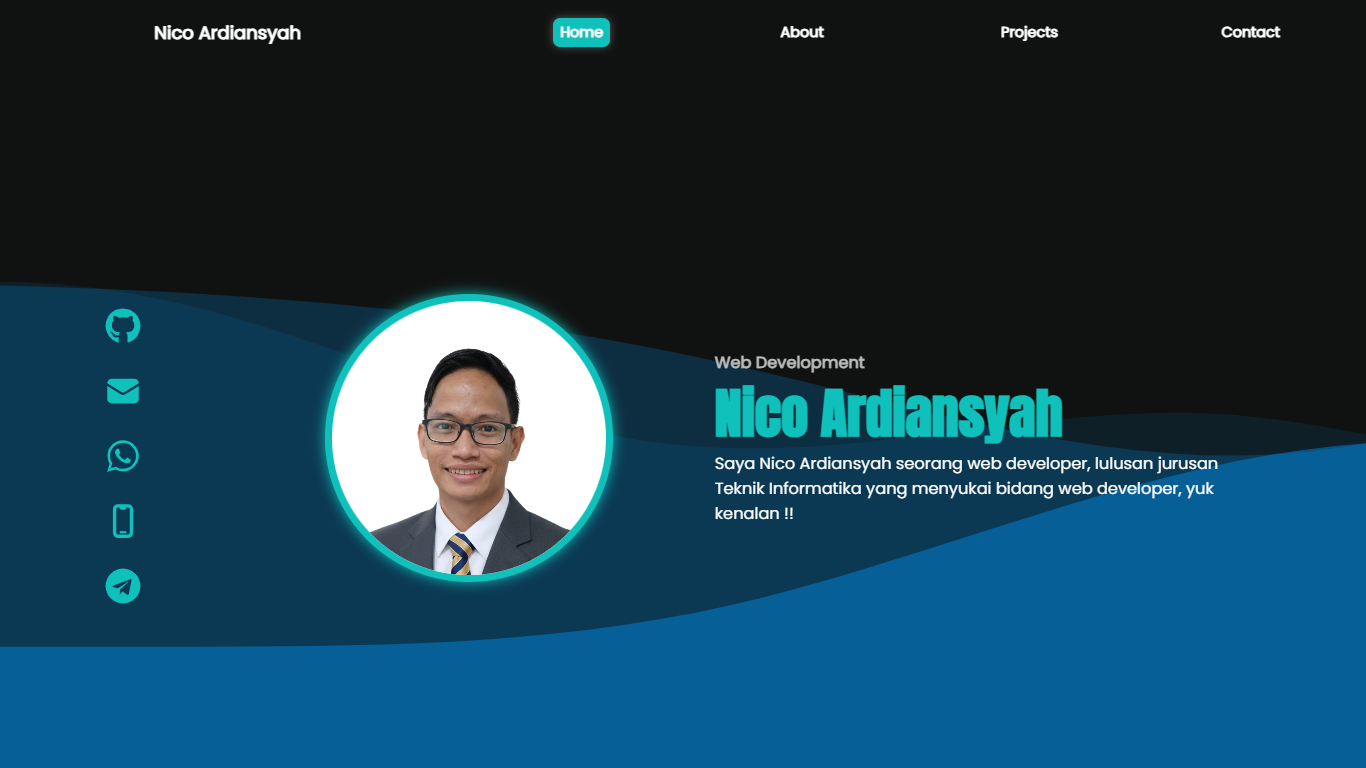
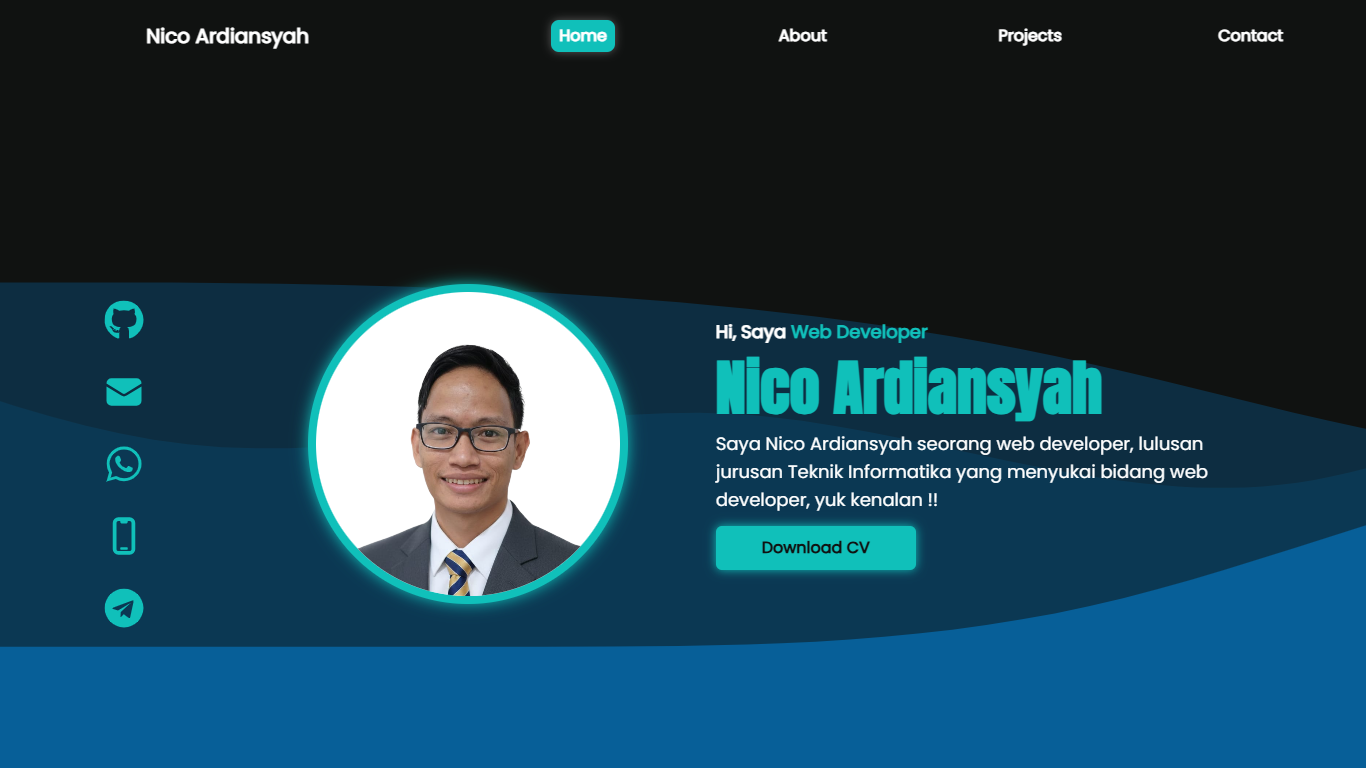
added download cv

diff --git a/Portofolio/src/components/About.jsx b/Portofolio/src/components/About.jsx
@@ -6,7 +6,7 @@ const About = () => {
         <>
             <section className="w-screen h-screen bg-transparent z-5 absolute flex flex-col md:flex-row mt-15 font-poppins md:justify-center md:items-center animate-fade-out">
                 <div className="w-screen h-1/3 flex items-center justify-center relative md:w-1/3">
-                    <div className="w-50 h-50 bg-myGreen rounded-full shadow-[0px_0px_30px] shadow-myGreen md:shadow-none blur-md animate-blob md:w-90 md:h-90"></div>
+                    <div className="w-50 h-50 bg-myGreen rounded-full shadow-[0px_0px_50px] shadow-myGreen md:shadow-none blur-md animate-blob md:w-90 md:h-90"></div>
                     <div className="w-50 h-50 absolute border border-white rounded-full animate-blob md:w-80 md:h-80">
                         <img src={ foto } alt="" className="object-cover object-top w-full h-full rounded-full"/>
                     </div>
@@ -21,26 +21,26 @@ const About = () => {
                     <div className="flex flex-col pl-5 md:gap-3">
                         <h1 className="text-myGreen text-lg font-semibold">Skills</h1>
                         <div className="flex gap-2 flex-wrap">
-                            <div className="p-1 bg-myGreen shadow-[0px_0px_5px] shadow-myGreen rounded-md text-white hover:bg-transparent hover:ring-2 ring-white hover:text-myGreen transition-all duration-700">
+                            <div className="p-1 bg-myGreen rounded-md text-white hover:bg-transparent hover:ring-2 ring-white hover:text-myGreen transition-all duration-700">
                                 Javascript
                             </div>
-                            <div className="p-1 bg-myGreen shadow-[0px_0px_5px] shadow-myGreen rounded-md text-white hover:bg-transparent hover:ring-2 ring-white hover:text-myGreen transition-all duration-700">
+                            <div className="p-1 bg-myGreen rounded-md text-white hover:bg-transparent hover:ring-2 ring-white hover:text-myGreen transition-all duration-700">
                                 Tailwind css
                             </div>
-                            <div className="p-1 bg-myGreen shadow-[0px_0px_5px] shadow-myGreen rounded-md text-white hover:bg-transparent hover:ring-2 ring-white hover:text-myGreen transition-all duration-700">
+                            <div className="p-1 bg-myGreen rounded-md text-white hover:bg-transparent hover:ring-2 ring-white hover:text-myGreen transition-all duration-700">
                                 React
                             </div>
-                            <div className="p-1 bg-myGreen shadow-[0px_0px_5px] shadow-myGreen rounded-md text-white hover:bg-transparent hover:ring-2 ring-white hover:text-myGreen transition-all duration-700">
+                            <div className="p-1 bg-myGreen rounded-md text-white hover:bg-transparent hover:ring-2 ring-white hover:text-myGreen transition-all duration-700">
                                 Node JS
                             </div>
-                            <div className="p-1 bg-myGreen shadow-[0px_0px_5px] shadow-myGreen rounded-md text-white hover:bg-transparent hover:ring-2 ring-white hover:text-myGreen transition-all duration-700">
+                            <div className="p-1 bg-myGreen rounded-md text-white hover:bg-transparent hover:ring-2 ring-white hover:text-myGreen transition-all duration-700">
                                 Express JS
                             </div>
-                            <div className="p-1 bg-myGreen shadow-[0px_0px_5px] shadow-myGreen rounded-md text-white hover:bg-transparent hover:ring-2 ring-white hover:text-myGreen transition-all duration-700">
+                            <div className="p-1 bg-myGreen rounded-md text-white hover:bg-transparent hover:ring-2 ring-white hover:text-myGreen transition-all duration-700">
                                 MongoDB
                             </div>
-                            <div className="p-1 bg-myGreen shadow-[0px_0px_5px] shadow-myGreen rounded-md text-white hover:bg-transparent hover:ring-2 ring-white hover:text-myGreen transition-all duration-700">
-                                Git
+                            <div className="p-1 bg-myGreen rounded-md text-white hover:bg-transparent hover:ring-2 ring-white hover:text-myGreen transition-all duration-700">
+                                Github
                             </div>
                         </div>
                     </div>

diff --git a/Portofolio/src/components/navbar.jsx b/Portofolio/src/components/navbar.jsx
@@ -12,24 +12,24 @@ const Navbar = () => {
                 <div className="w-1/3 h-full font-semibold text-[20px] hidden md:flex justify-center items-center">
                     <h1>Nico Ardiansyah</h1>
                 </div>
-                <section className="flex-1 flex content-center justify-around text-shadow-[0px_0px_1px] text-shadow-white transition-all px-4">
+                <section className="flex-1 flex content-center justify-around transition-all px-4">
                     <div className="w-15 h-full content-center">
-                        <button className={`content-center cursor-pointer py-1 px-2 ${nav == "Home" ? "rounded-lg bg-myGreen duration-700 shadow-[0px_0px_10px] shadow-white/30" : ''}`} onClick={() => setNav("Home")}>
+                        <button className={`content-center cursor-pointer py-1 px-2 ${nav == "Home" ? "rounded-lg bg-myGreen duration-700" : ''}`} onClick={() => setNav("Home")}>
                             Home
                         </button>
                     </div>
                     <div className="w-15 h-full content-center">
-                        <button className={`content-center cursor-pointer py-1 px-2 ${nav == "About" ? "rounded-lg bg-myGreen duration-700 shadow-[0px_0px_10px] shadow-white/30" : ''}`} onClick={() => setNav("About")}>
+                        <button className={`content-center cursor-pointer py-1 px-2 ${nav == "About" ? "rounded-lg bg-myGreen duration-700" : ''}`} onClick={() => setNav("About")}>
                             About
                         </button>
                     </div>
                     <div className="w-15 h-full content-center">
-                        <button className={`content-center cursor-pointer py-1 px-2 ${nav == "Projects" ? "rounded-lg bg-myGreen duration-700 shadow-[0px_0px_10px] shadow-white/30" : ''}`} onClick={() => setNav("Projects")}>
+                        <button className={`content-center cursor-pointer py-1 px-2 ${nav == "Projects" ? "rounded-lg bg-myGreen duration-700" : ''}`} onClick={() => setNav("Projects")}>
                             Projects
                         </button>
                     </div>
                     <div className="w-15 h-full content-center">
-                        <button className={`content-center cursor-pointer py-1 px-2 ${nav == "Contact" ? "rounded-lg bg-myGreen duration-700 shadow-[0px_0px_10px] shadow-white/30" : ''}`} onClick={() => setNav("Contact")}>
+                        <button className={`content-center cursor-pointer py-1 px-2 ${nav == "Contact" ? "rounded-lg bg-myGreen duration-700" : ''}`} onClick={() => setNav("Contact")}>
                             Contact
                         </button>
                     </div>

diff --git a/Portofolio/src/components/Home.jsx b/Portofolio/src/components/Home.jsx
@@ -14,17 +14,20 @@ const Home = () => {
                     </div>
                 </div>
                 <div className=" flex flex-col gap-3 ml-5 md:w-[40%] md:order-3 order-2">
-                    <div className="text-myWhite font-semibold text-md md:text-lg">
-                        <h2>Web Development</h2>
+                    <div className="font-semibold text-md md:text-lg">
+                        <span className="text-white">Hi, Saya <span className="text-myGreen">Web Developer</span></span>
                     </div>
                     <div className="flex gap-2 items-center">
                         <h1 className="text-4xl text-myGreen font-bold font-anton md:text-6xl">Nico Ardiansyah</h1>
                     </div>
                     <div className="text-white text-sm md:text-lg">
-                        <span>Saya Nico Ardiansyah seorang web developer, lulusan jurusan Teknik Informatika yang menyukai bidang web developer, yuk kenalan !!</span>
+                        <span>Saya Nico Ardiansyah, lulusan jurusan Teknik Informatika yang menyukai bidang web development, yuk kenalan !!</span>
                     </div>
+                    <a href="https://drive.google.com/file/d/1HTzZUfnXP0mOfLn6pYp9EO-ETGjqG8r-/view?usp=drive_link" className="p-2 rounded-md border-2 border-myGreen bg-myGreen text-myBlack w-50 font-semibold shadow-[0px_0px_10px] shadow-myGreen hover:bg-transparent hover:text-myWhite transition-all duration-500 text-center">
+                        Download CV
+                    </a>
                 </div>
-                <div className="flex justify-center w-[90%] gap-8 self-center mt-10 md:order-1 md:flex-col md:w-[10%] order-3">
+                <div className="md:flex justify-center w-[90%] gap-8 self-center mt-10 md:order-1 md:flex-col md:w-[10%] order-3 hidden">
                     <a href="https://github.com/nico-ardiansyah"><FaGithub className="w-10 h-10 text-myGreen cursor-pointer hover:text-white hover:scale-105 transition-all duration-500" /></a>
                     <a href="mailto:nic0.ardiansy4h@gmail.com"> <EnvelopeIcon className="w-10 h-10 text-myGreen cursor-pointer hover:text-white hover:scale-105 transition-all duration-500" /> </a>
                     <a href="https://wa.me/6289525797654"> <FaWhatsapp className="w-10 h-10 text-myGreen cursor-pointer hover:text-white hover:scale-105 transition-all duration-500" /> </a>

diff --git a/Portofolio/src/components/Contact.jsx b/Portofolio/src/components/Contact.jsx
@@ -18,23 +18,23 @@ const Contact = () => {
                     <div className="gap-8 flex w-full text-white flex-col">
                         <div className="flex gap-3 items-center">
                             <a href="https://github.com/nico-ardiansyah"><FaGithub className="w-10 h-10 text-myGreen cursor-pointer" /></a> 
-                            <span className="text-lg">https://github.com/nico-ardiansyah</span>
+                            <span className="md:text-lg text-sm">https://github.com/nico-ardiansyah</span>
                         </div>
                         <div className="flex gap-3 items-center">
                             <a href="mailto:nic0.ardiansy4h@gmail.com"><EnvelopeIcon className="w-10 h-10 text-myGreen cursor-pointer" /></a>
-                            <span className="text-lg">nic0.ardiansy4h@gmail.com</span>
+                            <span className="md:text-lg text-sm">nic0.ardiansy4h@gmail.com</span>
                         </div>
                         <div className="flex gap-3 items-center">
                             <a href="tel:+6289525797654"><DevicePhoneMobileIcon className="w-10 h-10 text-myGreen cursor-pointer" /></a>
-                            <span className="text-lg">+62 895 2579 7654</span>
+                            <span className="md:text-lg text-sm">+62 895 2579 7654</span>
                         </div>
                         <div className="flex gap-3 items-center">
                             <a href="https://wa.me/6289525797654"><FaWhatsapp className="w-10 h-10 text-myGreen cursor-pointer" /></a>
-                            <span className="text-lg">+62 895 2579 7654</span>
+                            <span className="md:text-lg text-sm">+62 895 2579 7654</span>
                         </div>
                         <div className="flex gap-3 items-center">
                             <a href="https://t.me/nicoardiansyahh"><FaTelegram className="w-10 h-10 text-myGreen cursor-pointer" /></a>
-                            <span className="text-lg">@nicoardiansyahh</span>
+                            <span className="md:text-lg text-sm">@nicoardiansyahh</span>
                         </div>
                     </div>
                 </section> 
